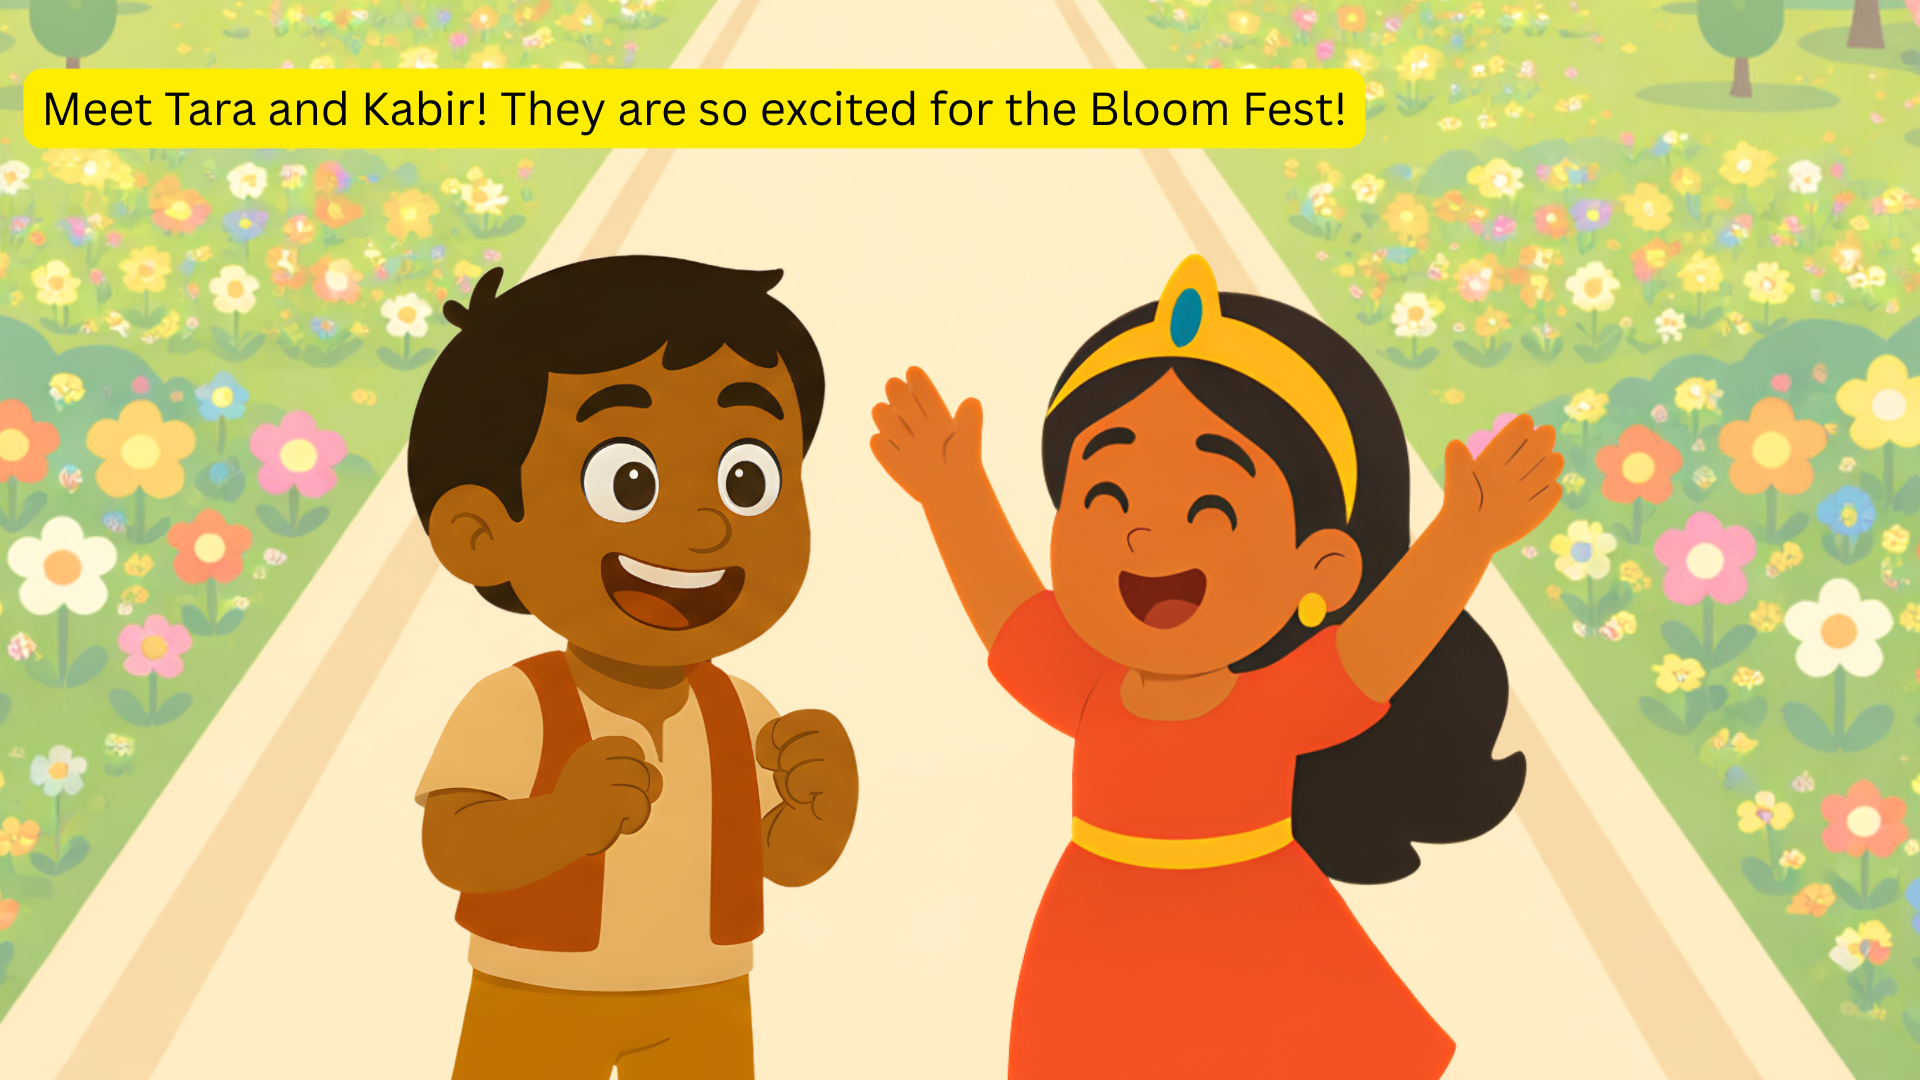
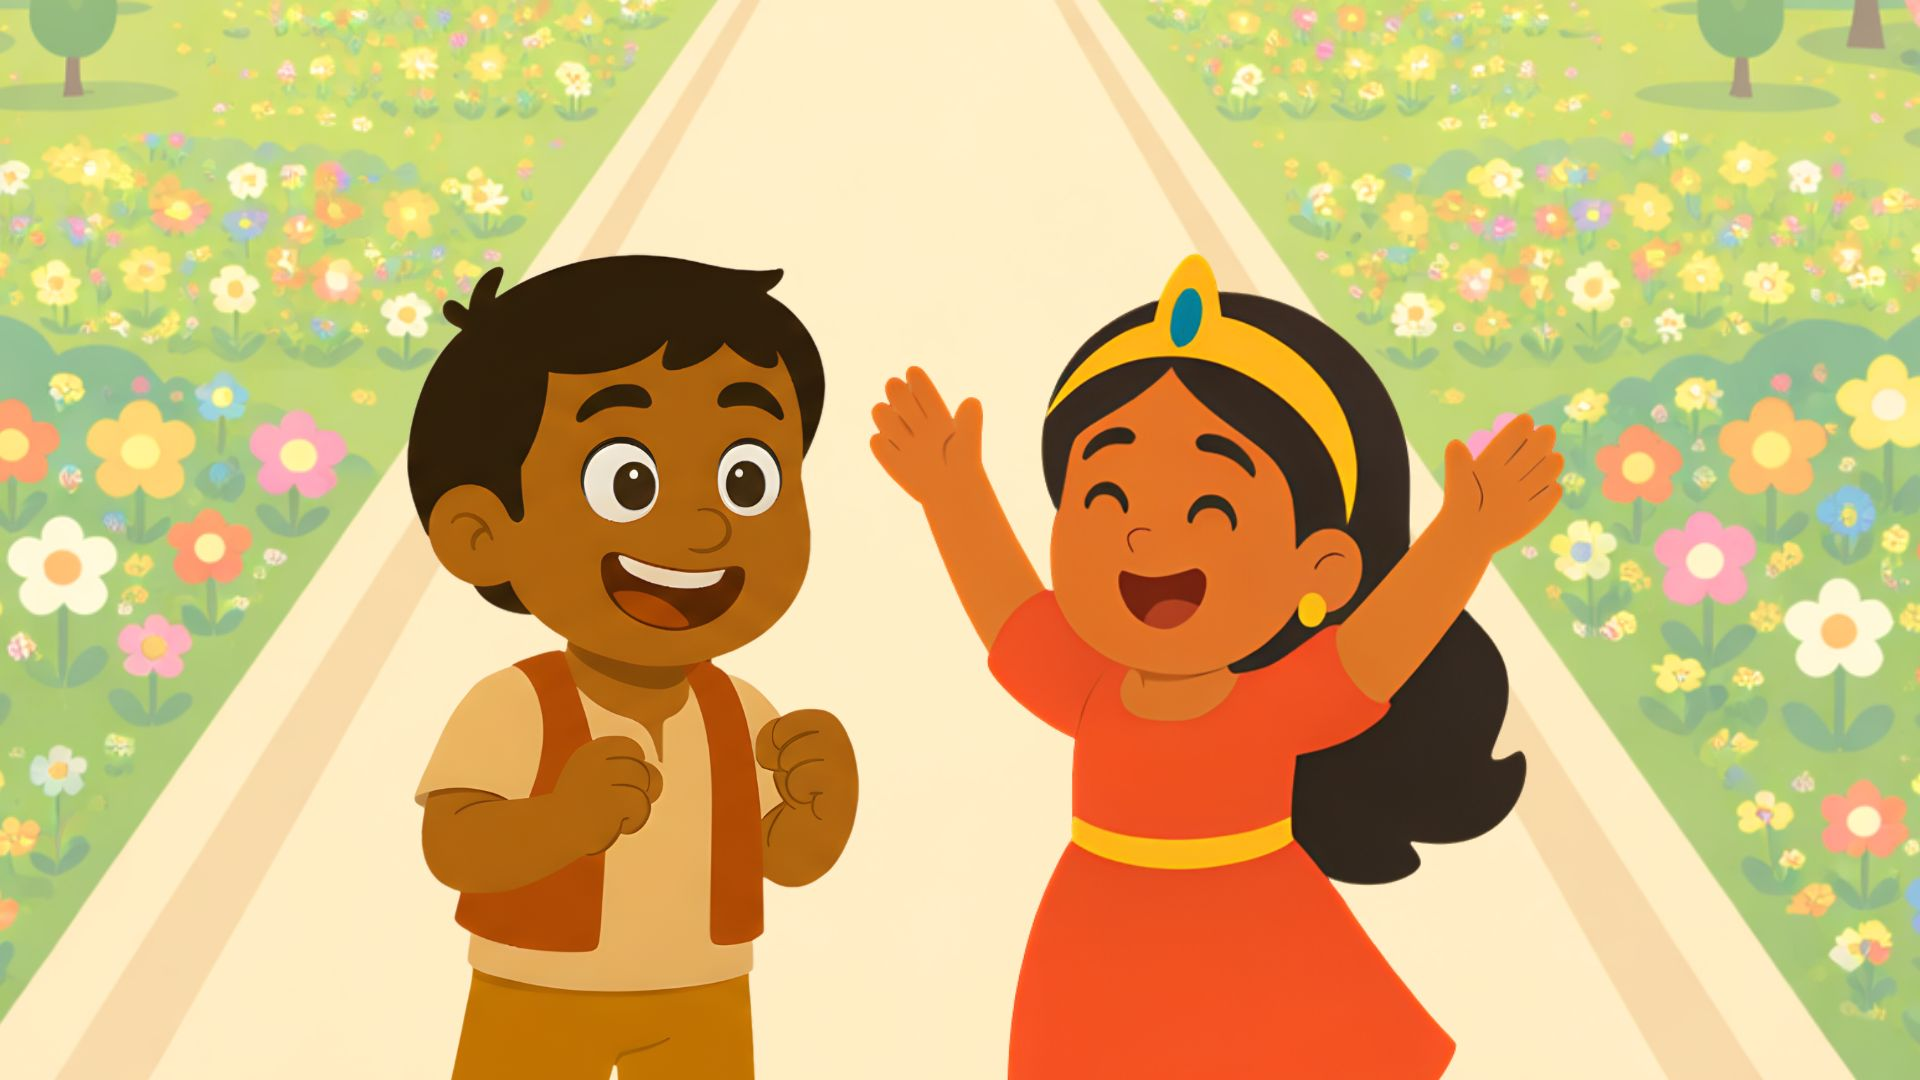
feat: update styles for wagon and balloon animations for improved visual effects

Changed region(s): [[0.0, 0.0611, 0.7188, 0.1528]]

diff --git a/index.html b/index.html
@@ -382,7 +382,7 @@
       display: block;
       pointer-events: none;
       z-index: 1;
-      opacity: .9;
+      opacity: .82;
       background:
         radial-gradient(ellipse at 50% 18%, rgba(255, 241, 177, .9), rgba(255, 224, 135, .56) 62%, rgba(255, 224, 135, 0) 100%),
         linear-gradient(180deg, rgba(255, 233, 161, .68), rgba(244, 202, 108, .42));
@@ -390,18 +390,18 @@
     }
 
     .wagon-handle-cleanup {
-      left: 47.1%;
-      top: 8%;
-      width: 4.2%;
-      height: 36%;
+      left: 48.1%;
+      top: 8.5%;
+      width: 3.1%;
+      height: 34%;
       border-radius: 999px;
     }
 
     .wagon-cart-cleanup {
-      left: 34.3%;
-      top: 28%;
-      width: 31.5%;
-      height: 31%;
+      left: 38%;
+      top: 30%;
+      width: 27.5%;
+      height: 29%;
       border-radius: 46% 46% 34% 34%;
     }
 
@@ -414,7 +414,7 @@
       object-fit: cover;
       object-position: center;
       opacity: 1;
-      transform: translate3d(0, 0, 0) scale(1);
+      transform: translate3d(2.8%, -6.5%, 0) scale(.78);
       transform-origin: 50% 13%;
       will-change: transform, opacity, filter;
       animation: none;
@@ -428,29 +428,29 @@
       0% {
         opacity: 1;
         filter: drop-shadow(0 12px 10px rgba(86, 50, 0, .18));
-        transform: translate3d(0, 0, 0) scale(1);
+        transform: translate3d(2.8%, -6.5%, 0) scale(.78);
       }
 
       18% {
         opacity: 1;
-        transform: translate3d(.2%, -1.8%, 0) scale(.92);
+        transform: translate3d(2.1%, -8.2%, 0) scale(.7);
       }
 
       58% {
         opacity: 1;
         filter: drop-shadow(0 8px 7px rgba(86, 50, 0, .12));
-        transform: translate3d(.3%, -7%, 0) scale(.52);
+        transform: translate3d(1.2%, -12.8%, 0) scale(.43);
       }
 
       82% {
         opacity: .72;
-        transform: translate3d(.2%, -11%, 0) scale(.28);
+        transform: translate3d(.4%, -16.2%, 0) scale(.24);
       }
 
       100% {
         opacity: 0;
         filter: drop-shadow(0 0 0 rgba(86, 50, 0, 0));
-        transform: translate3d(.1%, -13%, 0) scale(.16);
+        transform: translate3d(.2%, -18.2%, 0) scale(.13);
       }
     }
 
@@ -494,10 +494,10 @@
     }
 
     .balloon-float-cleanup.path {
-      left: 35.4%;
-      top: 33%;
-      width: 27.5%;
-      height: 32%;
+      left: 38.4%;
+      top: 35%;
+      width: 24.2%;
+      height: 28%;
       border-radius: 46% 46% 35% 35%;
       background:
         radial-gradient(ellipse at 50% 38%, rgba(255, 235, 169, .92), rgba(255, 218, 122, .55) 62%, rgba(255, 218, 122, 0) 100%),
@@ -514,7 +514,7 @@
       object-fit: cover;
       object-position: center;
       opacity: 1;
-      transform: translate3d(0, 0, 0) scale(1) rotate(0deg);
+      transform: translate3d(6.8%, -8.5%, 0) scale(.68) rotate(0deg);
       transform-origin: 50% 42%;
       will-change: transform, opacity, filter;
       animation: none;
@@ -528,29 +528,29 @@
       0% {
         opacity: 1;
         filter: drop-shadow(0 14px 12px rgba(75, 48, 0, .14));
-        transform: translate3d(0, 0, 0) scale(1) rotate(0deg);
+        transform: translate3d(6.8%, -8.5%, 0) scale(.68) rotate(0deg);
       }
 
       20% {
         opacity: 1;
-        transform: translate3d(-.35%, -4%, 0) scale(.94) rotate(-.7deg);
+        transform: translate3d(5.4%, -12.5%, 0) scale(.61) rotate(-.7deg);
       }
 
       48% {
         opacity: 1;
         filter: drop-shadow(0 9px 8px rgba(75, 48, 0, .1));
-        transform: translate3d(.45%, -15%, 0) scale(.76) rotate(.8deg);
+        transform: translate3d(3.2%, -22%, 0) scale(.47) rotate(.8deg);
       }
 
       78% {
         opacity: .78;
-        transform: translate3d(-.8%, -31%, 0) scale(.52) rotate(-.5deg);
+        transform: translate3d(1.1%, -38%, 0) scale(.3) rotate(-.5deg);
       }
 
       100% {
         opacity: 0;
         filter: drop-shadow(0 0 0 rgba(75, 48, 0, 0));
-        transform: translate3d(-1.2%, -47%, 0) scale(.34) rotate(.3deg);
+        transform: translate3d(.1%, -55%, 0) scale(.19) rotate(.3deg);
       }
     }
 